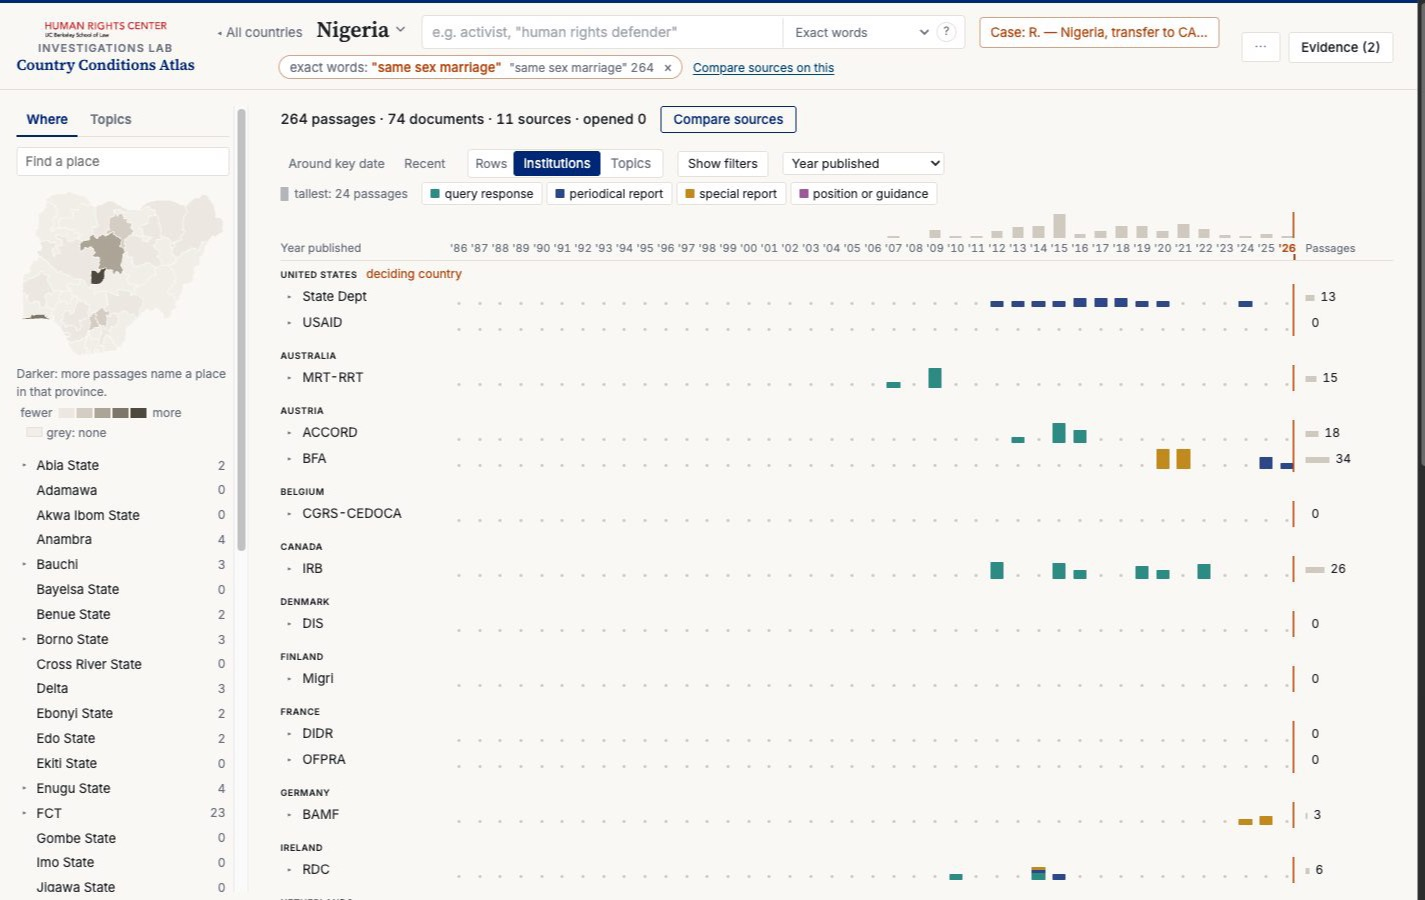
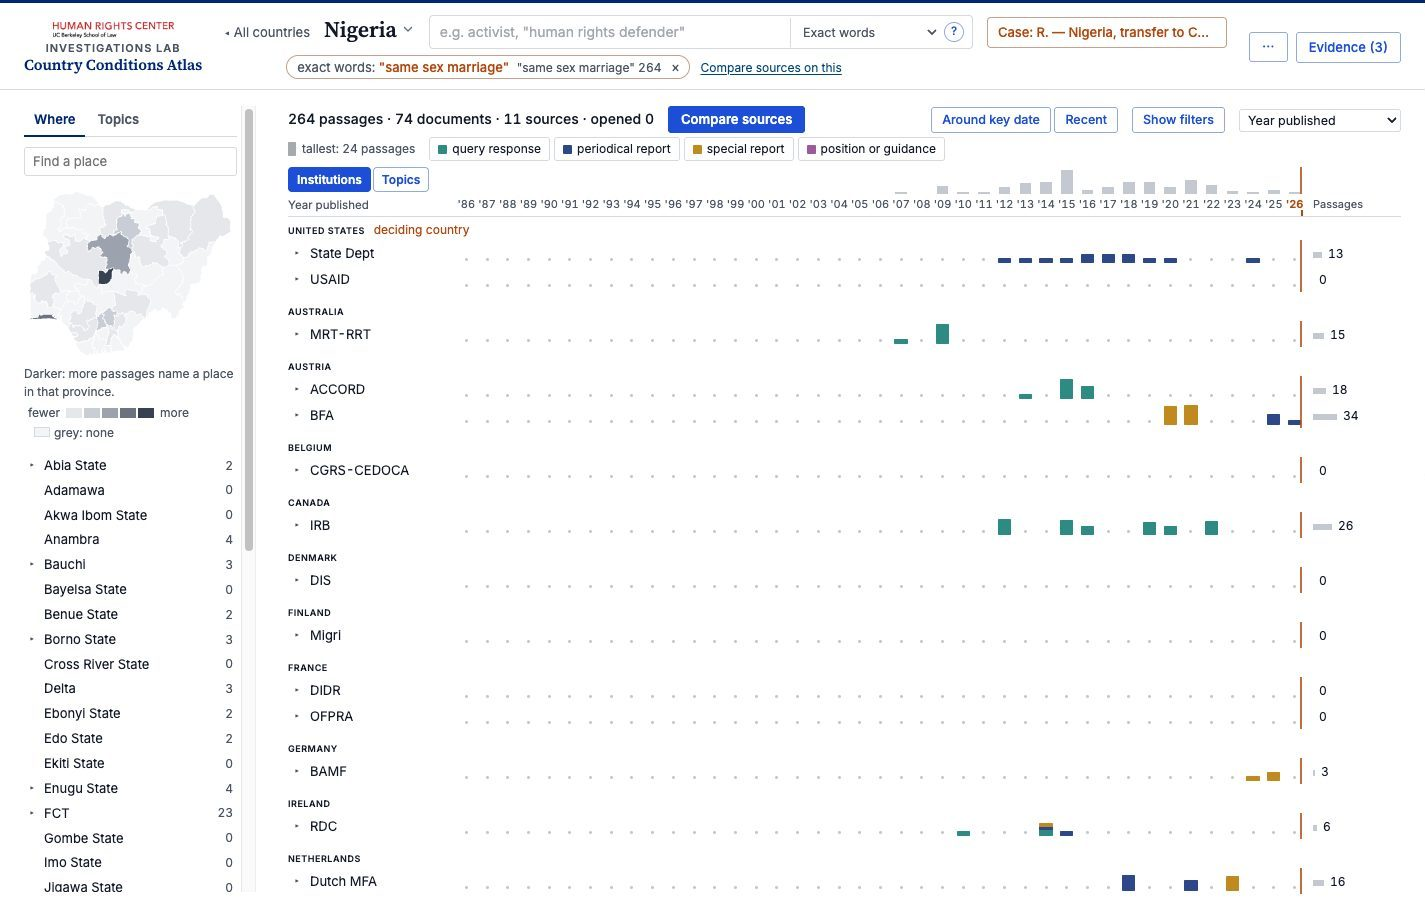
White background, darker text and blue buttons; the Institutions/Topics switch moves into the table's corner; guide screenshots retaken
Claude-Session: https://claude.ai/code/session_015QqkhL8CB7sa7iWybLvh2n

diff --git a/style.css b/style.css
@@ -2,13 +2,15 @@
    Voices: source (serif, ink, white cards) · atlas (small grey sans; dotted rule when machine-made) · you (the accent).
    Type colours belong only to documents. */
 :root {
-  --paper: #FAF8F4; --card: #FFFFFF; --ink: #1F2328; --grey: #6B7280; --line: #E5E1DA;
+  --paper: #FFFFFF; --card: #FFFFFF; --ink: #111827; --grey: #4B5563; --line: #D5D9E0;
+  /* Buttons: one clear blue, so every control reads as something to press. */
+  --btn: #1D4ED8; --btn-dark: #1E3A8A; --btn-line: #93A9E6; --btn-soft: #EEF2FD;
   /* Type colours, adjusted within their hue families after a colour-blindness simulation (NOTES.md). */
   --t-response: #2E8B83; --t-periodical: #2D4789; --t-special: #C08A1E; --t-position: #9C5A9D; --t-other: #B8BEC5;
   --you: #B4470F; --you-soft: #FBEADD;
   /* The frame, a nod to Berkeley (DESIGN §6): blue and gold never mark data. */
   --brand: #002676; --gold: #FDB515; --link: #00447C; --brand-soft: #E6EAF3;
-  --m1: #ECE8E1; --m2: #D3CDC3; --m3: #ACA497; --m4: #7D7669; --m5: #4E493F;   /* map shading, ink on paper */
+  --m1: #E5E7EB; --m2: #C9CED6; --m3: #9CA3AF; --m4: #6B7280; --m5: #374151;   /* map shading, ink on paper */
   --sans: Inter, ui-sans-serif, system-ui, -apple-system, "Segoe UI", Roboto, sans-serif;
   --serif: "Source Serif 4", "Source Serif Pro", Georgia, "Times New Roman", serif;
   --fade: 150ms;
@@ -129,7 +131,7 @@ table.grid { width: min(100%, calc(272px + var(--n) * 34px)); border-collapse: c
 .grid td, .grid th { padding: 0; }
 .grid td { position: relative; }
 .grid tr.hist td { height: 26px; vertical-align: bottom; text-align: center; }
-.hbar { display: block; margin: 0 auto; width: 56%; max-width: 12px; background: #CFC9BF; }
+.hbar { display: block; margin: 0 auto; width: 56%; max-width: 12px; background: #C4C9D1; }
 .grid tr.years th { font-weight: 400; color: var(--grey); font-size: 11px; height: 22px; position: relative; text-align: center; border-bottom: 1px solid var(--line); }
 .grid tr.years th.who-h { text-align: left; font-size: 11.5px; white-space: nowrap; overflow: visible; }
 .grid tr.years th.tot-h { text-align: left; padding-left: 8px; }
@@ -147,23 +149,23 @@ button.yr.you { color: var(--you); font-weight: 600; }
 .grid th.who .src:hover { background: var(--line); }
 .grid tr.on th.who .src { background: var(--line); font-weight: 600; }
 button.cell { display: block; width: 100%; height: 26px; position: relative; border-radius: 2px; }
-button.cell:hover { background: #F0ECE5; }
-button.cell.on { background: #ECE7DE; box-shadow: inset 0 0 0 1.5px var(--ink); }
-button.cell.nil::before { content: ""; position: absolute; width: 3px; height: 3px; border-radius: 50%; left: calc(50% - 1.5px); bottom: 5px; background: #CFC9BF; }
+button.cell:hover { background: #F1F3F6; }
+button.cell.on { background: #E6E9EE; box-shadow: inset 0 0 0 1.5px var(--ink); }
+button.cell.nil::before { content: ""; position: absolute; width: 3px; height: 3px; border-radius: 50%; left: calc(50% - 1.5px); bottom: 5px; background: #C4C9D1; }
 .stack { position: absolute; left: 18%; right: 18%; bottom: 3px; max-height: calc(100% - 6px); display: flex; flex-direction: column-reverse; border-radius: 1px; overflow: hidden; }
 .stack i { display: block; min-height: 1px; }
 button.cell:focus-visible { outline: 2px solid var(--ink); outline-offset: -1px; }
 .grid td[data-dep]::after { content: ""; position: absolute; top: 0; bottom: 0; left: calc(var(--dep) * 100%); width: 2px; margin-left: -1px; background: var(--you); pointer-events: none; opacity: .8; }
 .grid tr.years th[data-dep]::after { content: ""; position: absolute; bottom: 0; left: calc(var(--dep) * 100%); width: 2px; height: 6px; background: var(--you); }
 td.tot { padding-left: 8px !important; white-space: nowrap; color: var(--ink); font-size: 12px; }
-.rbar { display: inline-block; height: 6px; background: #CFC9BF; margin-right: 6px; vertical-align: 0; }
+.rbar { display: inline-block; height: 6px; background: #C4C9D1; margin-right: 6px; vertical-align: 0; }
 tr.doclist td { padding: 2px 0 10px 18px !important; }
 .dl { border-left: 2px solid var(--line); padding-left: 12px; }
 .dl p { margin: 4px 0 6px; }
 .dl ul { list-style: none; margin: 0; padding: 0; max-width: 1180px; }
 .dl li { display: flex; align-items: baseline; gap: 10px; border-bottom: 1px solid var(--line); }
 .docline { display: grid; grid-template-columns: 92px 150px minmax(0, 1fr) 84px minmax(0, 240px); gap: 10px; align-items: baseline; text-align: left; padding: 4px 4px; flex: 1; min-width: 0; }
-.docline:hover { background: #F0ECE5; }
+.docline:hover { background: #F1F3F6; }
 .docline .t { overflow: hidden; text-overflow: ellipsis; white-space: nowrap; }
 .docline:hover .t { text-decoration: underline; }
 .docline .n, .docline .date { color: var(--grey); font-size: 12px; }
@@ -197,7 +199,7 @@ details.silent li { break-inside: avoid; padding: 1px 0; color: var(--ink); }
 .where { position: sticky; top: calc(var(--top, 90px) + 12px); max-height: calc(100vh - var(--top, 90px) - 24px); overflow-y: auto; padding-right: 4px; }
 .findplace input { width: 100%; border: 1px solid var(--line); background: var(--card); border-radius: 3px; padding: 4px 8px; margin-bottom: 10px; }
 .where .map { width: 100%; height: auto; display: block; margin: 0 0 4px; }
-.where .map path { stroke: var(--paper); stroke-width: .8; cursor: pointer; fill: #F1EEE8; }
+.where .map path { stroke: var(--paper); stroke-width: .8; cursor: pointer; fill: #F3F4F6; }
 .where .map path.m1 { fill: var(--m1); } .where .map path.m2 { fill: var(--m2); } .where .map path.m3 { fill: var(--m3); }
 .where .map path.m4 { fill: var(--m4); } .where .map path.m5 { fill: var(--m5); }
 .where .map path:hover { stroke: var(--ink); }
@@ -210,7 +212,7 @@ details.silent li { break-inside: avoid; padding: 1px 0; color: var(--ink); }
 .shades i { display: inline-block; width: 16px; height: 10px; }
 .shades span { margin: 0 4px; }
 .shades i.m1 { background: var(--m1); } .shades i.m2 { background: var(--m2); } .shades i.m3 { background: var(--m3); }
-.shades i.m4 { background: var(--m4); } .shades i.m5 { background: var(--m5); } .shades i.m0 { background: #F1EEE8; box-shadow: inset 0 0 0 1px var(--line); margin-right: 4px; }
+.shades i.m4 { background: var(--m4); } .shades i.m5 { background: var(--m5); } .shades i.m0 { background: #F3F4F6; box-shadow: inset 0 0 0 1px var(--line); margin-right: 4px; }
 .shades .none-key { margin-left: 10px; display: inline-flex; align-items: center; }
 ul.places, ul.places ul { list-style: none; margin: 0; padding: 0; }
 ul.places li { display: grid; grid-template-columns: 16px 1fr; align-items: start; }
@@ -288,8 +290,8 @@ body.page-open { overflow: hidden; }
 .doccard .desc { color: #3D434B; }
 .doccard .h { margin-top: 14px; }
 .doccard .eds li { display: flex; flex-direction: column; }
-.stage { overflow-y: auto; padding: 0 24px 40px; background: #F1EEE8; position: relative; outline: none; }
-.pnav { position: sticky; top: 0; z-index: 3; display: flex; flex-wrap: wrap; justify-content: center; align-items: center; gap: 18px; padding: 8px 0; background: #F1EEE8; border-bottom: 1px solid var(--line); margin: 0 -24px 12px; }
+.stage { overflow-y: auto; padding: 0 24px 40px; background: #F3F4F6; position: relative; outline: none; }
+.pnav { position: sticky; top: 0; z-index: 3; display: flex; flex-wrap: wrap; justify-content: center; align-items: center; gap: 18px; padding: 8px 0; background: #F3F4F6; border-bottom: 1px solid var(--line); margin: 0 -24px 12px; }
 .pbtn { min-height: 34px; min-width: 112px; padding: 4px 14px; border: 1px solid var(--line); background: var(--card); border-radius: 4px; color: var(--ink); font-size: 13.5px; }
 .pbtn:hover { border-color: var(--grey); }
 .pjump { color: var(--grey); font-size: 13.5px; }
@@ -416,11 +418,11 @@ li.pinned .newer { color: var(--ink); }
 .welcome h2 { font: 600 24px/1.2 var(--serif); color: var(--ink); margin: 0; }
 .welcome .h { font: 600 12px/1.2 var(--sans); letter-spacing: .1em; text-transform: uppercase; font-variant-caps: normal; color: var(--brand); margin-bottom: 12px; }
 .pick-head { display: flex; justify-content: space-between; align-items: center; gap: 16px; flex-wrap: wrap; padding-bottom: 12px; border-bottom: 1px solid var(--line); }
-.findcountry { width: min(22rem, 100%); border: 1px solid #CFCAC0; background: var(--card); border-radius: 4px; padding: 8px 12px; font-size: 15px; }
+.findcountry { width: min(22rem, 100%); border: 1px solid #B8BEC7; background: var(--card); border-radius: 4px; padding: 8px 12px; font-size: 15px; }
 .findcountry:focus { border-color: var(--brand); outline: 2px solid var(--brand-soft); }
 .worldmap { margin: 16px 0 0; background: var(--card); border: 1px solid var(--line); border-radius: 6px; padding: 18px 18px 10px; }
 .worldmap svg { display: block; width: 100%; height: auto; }
-.worldmap path { fill: #ECE9E3; stroke: #fff; stroke-width: .5; }
+.worldmap path { fill: #E9EBEF; stroke: #fff; stroke-width: .5; }
 .worldmap .on { fill: #C9CFDB; cursor: pointer; transition: fill var(--fade); }
 .worldmap circle.on { fill: #98A2B8; stroke: #fff; stroke-width: .8; }
 .worldmap .on.match { fill: var(--link); }
@@ -495,7 +497,7 @@ ul.heads .tnum { font-family: var(--sans); color: var(--grey); font-size: 11.5px
 .wname .grey { font-size: 12px; }
 .wstrip { display: flex; height: 18px; max-width: 520px; }
 .wc { flex: 1; position: relative; min-width: 3px; }
-.wc.lit { background: #ECE7DE; }
+.wc.lit { background: #E6E9EE; }
 .wc.dep::after { content: ""; position: absolute; top: 0; bottom: 0; left: 50%; width: 2px; margin-left: -1px; background: var(--you); }
 .wc .stack { left: 12%; right: 12%; bottom: 0; max-height: 100%; }
 .wcount { color: var(--grey); font-size: 12.5px; white-space: nowrap; }
@@ -530,10 +532,10 @@ ul.fams > li > .tdetail { grid-column: 2; }
 .across-lead b { color: var(--ink); }
 .across-row { display: flex; flex-wrap: wrap; align-items: center; gap: 8px 10px; }
 .across .af { border: 1px solid var(--line); background: var(--card); border-radius: 3px; padding: 4px 7px; font-size: 14px; color: var(--ink); max-width: 100%; }
-.across .look { background: var(--brand); color: #fff; border-radius: 3px; padding: 5px 16px; font-size: 14px; font-weight: 500; }
-.across .look:hover { background: var(--link); }
-.worldmap.across-on .on { fill: #F1EEE8; }
-.worldmap.across-on circle.on { fill: #E2DDD4; }
+.across .look { background: var(--btn); color: #fff; border-radius: 3px; padding: 5px 16px; font-size: 14px; font-weight: 500; }
+.across .look:hover { background: var(--btn-dark); }
+.worldmap.across-on .on { fill: #F3F4F6; }
+.worldmap.across-on circle.on { fill: #E3E6EA; }
 .worldmap.across-on .q1 { fill: var(--m1); } .worldmap.across-on .q2 { fill: var(--m2); } .worldmap.across-on .q3 { fill: var(--m3); }
 .worldmap.across-on .q4 { fill: var(--m4); } .worldmap.across-on .q5 { fill: var(--m5); }
 .worldmap.across-on .on.hov { fill: var(--brand); }
@@ -657,3 +659,24 @@ body:not(.home) .guide-link { display: none; }
 .gtable th { font-size: 12px; letter-spacing: .06em; text-transform: uppercase; color: var(--grey); font-weight: 600; }
 .gtable tr:last-child td { border-bottom: 0; }
 .gtable td:last-child { color: var(--grey); font-size: 13px; }
+
+/* ---------- Buttons: blue on white, filled when chosen (18 Nov) ---------- */
+.quiet-btn, .casefile-btn, .filters-btn, .pin, .copyq, .pbtn, .case-btn, .mt-toggle, .help-q, .ranges button, .modes button,
+.exports button, .dfoot button, .newcase + .dfoot button, .dfoot [data-import] { color: var(--btn); border: 1px solid var(--btn-line); background: var(--card); font-weight: 500; }
+.ranges button { padding: 3px 10px; }
+.modes { border: 0; padding: 0; gap: 0; background: none; }
+.modes button { border-radius: 0; margin-left: -1px; }
+.modes button:first-of-type { border-radius: 4px 0 0 4px; margin-left: 0; }
+.modes button:last-of-type { border-radius: 0 4px 4px 0; }
+.quiet-btn:hover, .casefile-btn:hover, .filters-btn:hover, .pin:hover, .copyq:hover, .pbtn:hover, .case-btn:hover, .mt-toggle:hover, .help-q:hover,
+.ranges button:hover:not(:disabled), .modes button:hover, .exports button:hover, .dfoot button:hover, .filters-btn[aria-expanded="true"] { color: var(--btn-dark); border-color: var(--btn); background: var(--btn-soft); }
+.modes button[aria-checked="true"], .mt-toggle[aria-pressed="true"] { background: var(--btn); border-color: var(--btn); color: #fff; }
+.compare, .look { background: var(--btn); border: 1px solid var(--btn); color: #fff; font-weight: 600; }
+.compare:hover, .look:hover { background: var(--btn-dark); border-color: var(--btn-dark); color: #fff; }
+.dfoot.danger button { color: var(--grey); border: 1px dashed var(--grey); }
+/* The rows switch sits in the table's own corner, over the row names. */
+.grid tr.hist td.rows-cell { vertical-align: bottom; text-align: left; padding: 0 0 2px; }
+.rowtabs { display: inline-flex; gap: 2px; }
+.rowtabs button { padding: 3px 8px; border: 1px solid var(--btn-line); border-radius: 4px; color: var(--btn); font-size: 12px; font-weight: 600; background: var(--card); }
+.rowtabs button:hover { background: var(--btn-soft); border-color: var(--btn); }
+.rowtabs button[aria-checked="true"] { background: var(--btn); border-color: var(--btn); color: #fff; }

diff --git a/src/grid.js b/src/grid.js
@@ -131,7 +131,7 @@ export function renderLandscape(app, el) {
 
   const hist = years.map(y => {
     const n = colTotal(y);
-    return `<td${depAttr(y, app)}><span class="hbar" style="height:${n ? Math.max(2, Math.round((n / colMax) * 24)) : 0}px" title="${y}: ${plural(n, 'passage', 'passages')}"></span></td>`;
+    return `<td aria-hidden="true"${depAttr(y, app)}><span class="hbar" style="height:${n ? Math.max(2, Math.round((n / colMax) * 24)) : 0}px" title="${y}: ${plural(n, 'passage', 'passages')}"></span></td>`;
   }).join('');
   const ylabels = years.map((y, i) =>
     `<th scope="col"${depAttr(y, app)} class="${!S.s.size && S.y === y ? 'on' : ''}"><button class="yr${L && String(L.y) === y ? ' you' : ''}" data-y="${y}" data-i="${i}" aria-label="${y === 'undated' ? 'Undated' : y}: compare sources for this year, ${plural(colTotal(y), 'passage', 'passages')}">${years.length <= 45 || y === 'undated' || (L && String(L.y) === y) || (+y % 5 === 0 && !(L && Math.abs(+y - L.y) === 1)) ? yy(y) : ''}</button></th>`).join('');
@@ -175,7 +175,6 @@ export function renderLandscape(app, el) {
             <button data-range="recent">Recent</button>
             ${state.r ? '<button data-range="">All years</button>' : ''}
           </span>
-          ${app.S.hasTopics ? `<span class="modes rowsmode" role="radiogroup" aria-label="Rows"><span class="lab">Rows</span><button role="radio" aria-checked="${!topicMode}" data-rm="">Institutions</button><button role="radio" aria-checked="${topicMode}" data-rm="t">Topics</button></span>` : ''}
           <button class="filters-btn" data-filters aria-expanded="${filtersOpen}" aria-controls="filters">${filtersOpen ? 'Hide filters' : 'Show filters'}${activeFilters() ? ` <span class="you">(${activeFilters()} on)</span>` : ''}</button>
           <label class="clock"><span class="sr-only">Year clock</span><select data-ck>
             <option value=""${state.ck !== 'm' ? ' selected' : ''}>Year published</option>
@@ -189,7 +188,7 @@ export function renderLandscape(app, el) {
         <caption class="sr-only">Passages matching the case line, by source and ${state.ck === 'm' ? 'year the text mentions' : 'year published'}. Cell height is the number of passages; colour is the document type. A cell opens that institution's documents for that year; a year label compares sources for that year.</caption>
         <colgroup><col class="c-who"><col span="${years.length}"><col class="c-tot"></colgroup>
         <thead>
-          <tr class="hist" aria-hidden="true"><td></td>${hist}<td></td></tr>
+          <tr class="hist"><td class="rows-cell">${app.S.hasTopics ? `<span class="rowtabs" role="radiogroup" aria-label="Rows show"><button role="radio" aria-checked="${!topicMode}" data-rm="">Institutions</button><button role="radio" aria-checked="${topicMode}" data-rm="t">Topics</button></span>` : ''}</td>${hist}<td aria-hidden="true"></td></tr>
           <tr class="years"><th scope="col" class="who-h">${state.ck === 'm' ? 'Year the text mentions' : 'Year published'}</th>${ylabels}<th scope="col" class="tot-h">Passages</th></tr>
         </thead>
         ${body}

diff --git a/guide.html b/guide.html
@@ -107,7 +107,7 @@
 
     <section class="gstep" id="s8">
       <h3><span class="n">8</span>Show the topics</h3>
-      <p class="try">Click Topics above the grid.</p>
+      <p class="try">Click Topics in the top-left corner of the grid.</p>
       <p>The rows are now subjects, for example security, health, women and prisons. The orange line on the right shows the key date.</p>
       <figure><img src="guide/09-car-topics.jpg" alt="The Central African Republic by topic, with a count of passages for each topic." width="1425" height="900" loading="lazy"><figcaption>Women and violence has 2,970 passages. Sexual orientation has 38 passages.</figcaption></figure>
     </section>
